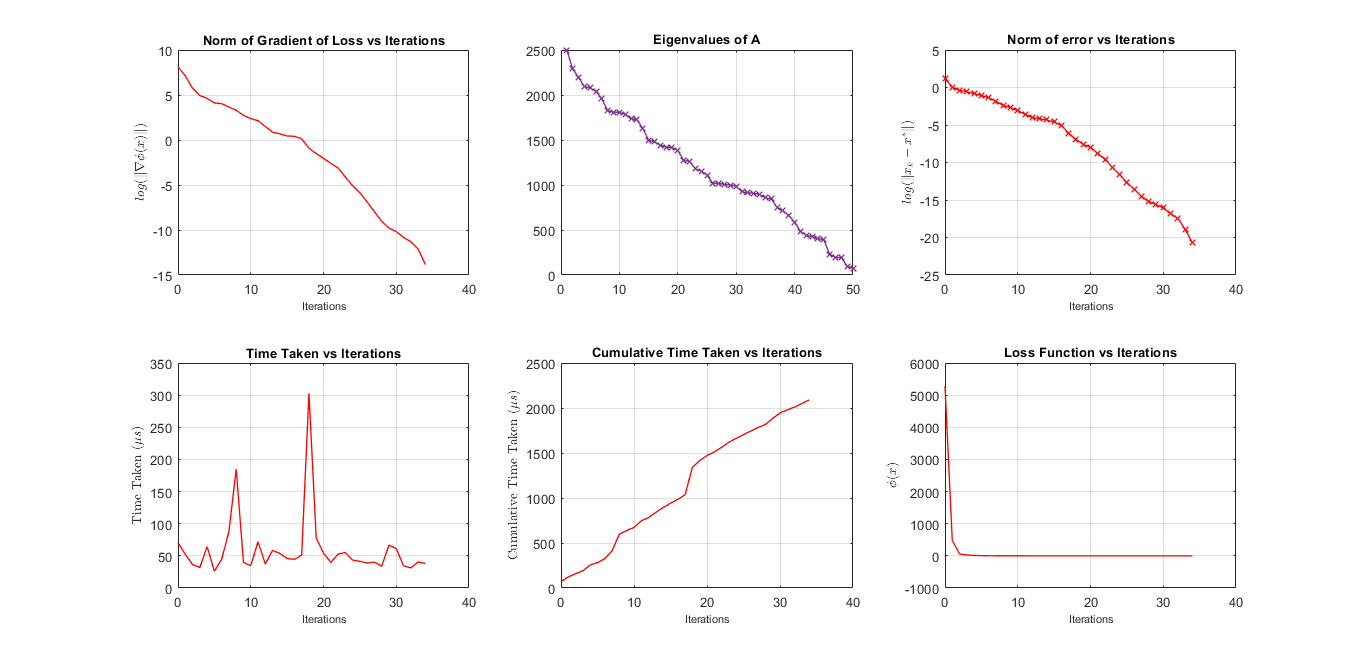
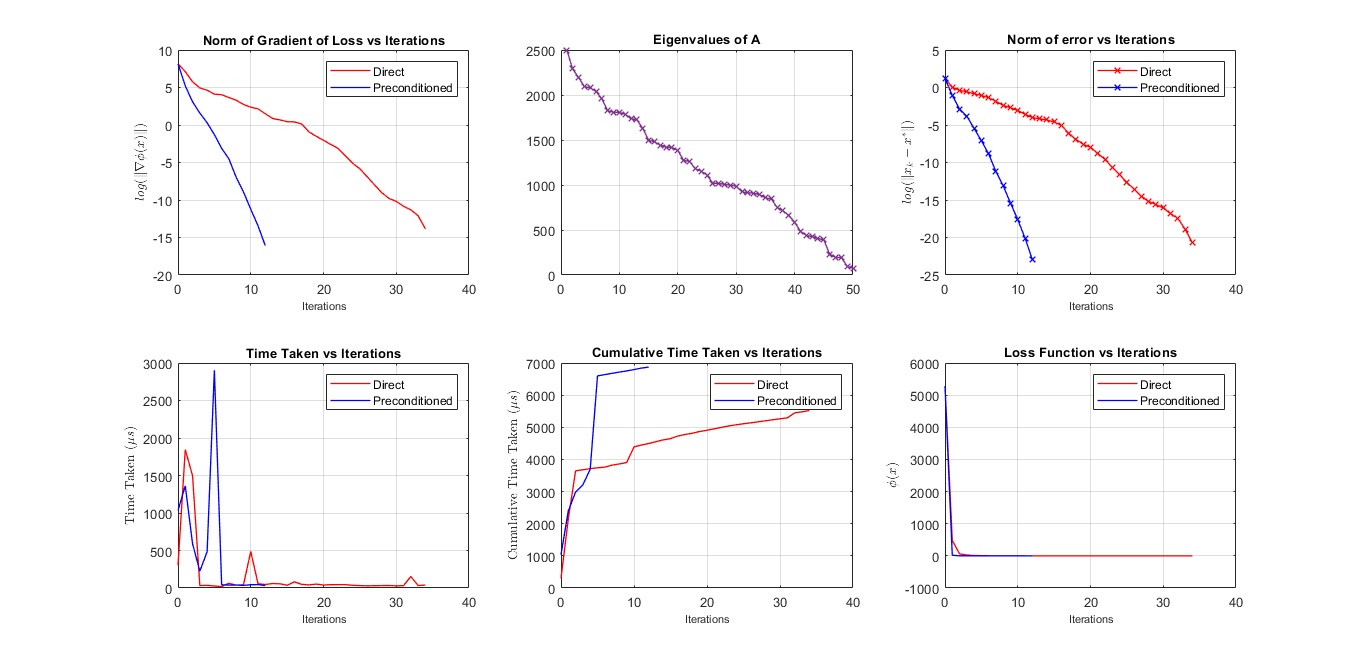
Made minor corrections in main and plotted time data for precondCG

diff --git a/main.m b/main.m
@@ -41,7 +41,7 @@ A = generatePDMatrix(N, max_eig);
 b_orig = mult * rand(N,1);
 b = b_orig + noise * rand(N,1);
 
-%Optimal solution to the linear equation Ax = b
+%Optimal solution to the linear equation Ax = b_orig
 x_opt = linsolve(A, b_orig);
 
 %%%%%%%%%%%%%%%%%%%%%%%%%%%%%%%%%%%%%%%%%%%%
@@ -54,11 +54,12 @@ max_iter = N;
 %Tolerance for norm of gradient of loss at convergence
 tolerance = 1e-6;
 
-%Calling the conjugateGrad function
+%Calling the conjugateGrad and preconditionedCG functions
 [x_hist, gf_hist, time_taken, num_iters] = conjugateGrad(A, b, x0, max_iter, tolerance);
 [x_hist_pre, gf_hist_pre, time_taken_pre, num_iters_pre] = preconditionedCG(A, b, x0, max_iter, tolerance);
 
 %%%%%%%%%%%%%%%%%%%%%%%%%%%%%%%%%%%%%%%%%%%%
+
 name1 = 'Direct';
 name2 = 'Preconditioned';
 
@@ -67,12 +68,13 @@ figure;
 subplot(2,3,1);
 plot(0:num_iters, log(gf_hist),'r','LineWidth',1,'DisplayName',name1);
 hold on;
-plot(0:num_iters_pre, log(gf_hist_pre),'r','LineWidth',1,'DisplayName',name2);
+plot(0:num_iters_pre, log(gf_hist_pre),'b','LineWidth',1,'DisplayName',name2);
 grid;
 title('Norm of Gradient of Loss vs Iterations', 'FontSize', 10);
 ylabel('$log( \| \nabla \phi (x) \| )$','interpreter','latex', 'FontSize', 10);
 xlabel('Iterations', 'FontSize', 8);
 legend();
+
 %%%%%%%%%%%%%%%%%%%%%%%%%%%%%%%%%%%%%%%%%%%%
 
 %Plotting eigen values of A
@@ -85,22 +87,27 @@ title('Eigenvalues of A', 'FontSize', 10);
 
 %Plotting log of norm of gradient of loss function
 subplot(2,3,3);
-plot(0:num_iters, log( vecnorm( x_hist- x_opt ) ),'r-x','LineWidth',1,'DisplayName',name1); grid;
+plot(0:num_iters, log( vecnorm( x_hist- x_opt ) ),'r-x','LineWidth',1,'DisplayName',name1);
 hold on;
-plot(0:num_iters_pre, log( vecnorm( x_hist_pre- x_opt ) ),'r-x','LineWidth',1,'DisplayName',name2); grid;
+plot(0:num_iters_pre, log( vecnorm( x_hist_pre- x_opt ) ),'b-x','LineWidth',1,'DisplayName',name2);
+grid;
+title('Norm of error vs Iterations', 'FontSize', 10);
 ylabel('$log(\|x_k-x^*\| )$','interpreter','latex', 'FontSize', 10);
 xlabel('Iterations', 'FontSize', 8);
-title('Norm of error vs Iterations', 'FontSize', 10);
 legend();
+
 %%%%%%%%%%%%%%%%%%%%%%%%%%%%%%%%%%%%%%%%%%%%
 
 %Plotting time taken
 subplot(2,3,4);
-plot(0:num_iters, 10^6*time_taken,'r','LineWidth',1);
+plot(0:num_iters, 10^6*time_taken,'r','LineWidth',1,'DisplayName',name1);
+hold on;
+plot(0:num_iters_pre, 10^6*time_taken_pre,'b','LineWidth',1,'DisplayName',name2);
 grid;
 title('Time Taken vs Iterations', 'FontSize', 10);
 ylabel('Time Taken ($\mu s$)','interpreter','latex', 'FontSize', 10);
 xlabel('Iterations', 'FontSize', 8);
+legend();
 
 %%%%%%%%%%%%%%%%%%%%%%%%%%%%%%%%%%%%%%%%%%%%
 
@@ -112,20 +119,29 @@ for i=2:num_iters+1
     time_taken_cum(i) = time_taken_cum(i-1) + time_taken(i);
 end
 
+time_taken_cum_pre = zeros(num_iters_pre+1, 1);
+time_taken_cum_pre(1) = time_taken_pre(1);
+for i=2:num_iters_pre+1
+    time_taken_cum_pre(i) = time_taken_cum_pre(i-1) + time_taken_pre(i);
+end
+
 subplot(2,3,5);
-plot(0:num_iters, 10^6*time_taken_cum,'r','LineWidth',1);
+plot(0:num_iters, 10^6*time_taken_cum,'r','LineWidth',1,'DisplayName',name1);
+hold on;
+plot(0:num_iters_pre, 10^6*time_taken_cum_pre,'b','LineWidth',1,'DisplayName',name2);
 grid;
 title('Cumulative Time Taken vs Iterations', 'FontSize', 10);
 ylabel('Cumulative Time Taken ($\mu s$)','interpreter','latex', 'FontSize', 10);
 xlabel('Iterations', 'FontSize', 8);
+legend();
 
 %%%%%%%%%%%%%%%%%%%%%%%%%%%%%%%%%%%%%%%%%%%%
 
-%Plotting the values taken by the loss function for each x in x_hist
+%Plotting the values taken by the loss function for each x in x_hist and x_hist_pre
 %Defining the loss function
 f = @(x) 0.5*x'*A*x - b'*x;
 
-%Calculating loss value at columns in x_hist
+%Calculating loss value at columns in x_hist and x_hist_pre
 func_vals = zeros(num_iters+1, 1);
 for i=1:(num_iters+1)
     func_vals(i, 1) = f(x_hist(:, i));
@@ -139,12 +155,15 @@ end
 subplot(2,3,6);
 plot(0:num_iters, func_vals,'r','LineWidth',1,'DisplayName',name1);
 hold on;
-plot(0:num_iters_pre, func_vals_pre,'r','LineWidth',1,'DisplayName',name2);
+plot(0:num_iters_pre, func_vals_pre,'b','LineWidth',1,'DisplayName',name2);
 grid;
 title('Loss Function vs Iterations', 'FontSize', 10);
 ylabel('$\phi (x)$', 'interpreter', 'latex', 'FontSize', 10);
 xlabel('Iterations', 'FontSize', 8);
 legend();
+
+%%%%%%%%%%%%%%%%%%%%%%%%%%%%%%%%%%%%%%%%%%%%
+
 % %Saving the plot generated
 % print('plot','-dpng');
 

diff --git a/preconditionedCG.m b/preconditionedCG.m
@@ -40,7 +40,10 @@ function [x_hist, gf_hist, time_taken, k] = preconditionedCG(A, b, x0, max_iter,
 	time_taken = toc;
 
 	%Displaying values before the iterations
-	disp(['CG: k=0, gf=' num2str(norm(r)) '  , time elapsed: ' num2str(time_taken*10^6) ' micro seconds']);
+	fprintf('\n');
+	disp('Preconditioned Conjugate Gradient Method:')
+	fprintf('\n');
+	disp(['PCG: k=0, gf=' num2str(norm(r)) '  , time elapsed: ' num2str(time_taken*10^6) ' micro seconds']);
 
 	while norm(r) > tolerance && k < max_iter
 		%Starting measurement of time for this iteration
@@ -70,9 +73,10 @@ function [x_hist, gf_hist, time_taken, k] = preconditionedCG(A, b, x0, max_iter,
 		%Ending measurement of time and logging
 		time_taken = [time_taken, toc];
 
-		disp(['CG: k=' num2str(k) ', gf=' num2str(norm(r_new)) '  , time elapsed: ' num2str(time_taken(end)*10^6) ' micro seconds']);
+		disp(['PCG: k=' num2str(k) ', gf=' num2str(norm(r_new)) '  , time elapsed: ' num2str(time_taken(end)*10^6) ' micro seconds']);
 	end
 	%Displaying relevant details of the CGM execution
 	fprintf('\n');
 	disp(['Total number of iterations: ' num2str(k) ' , Total time taken: ' num2str(sum(time_taken)*10^6) ' micro seconds']);
+	fprintf('\n');
 end

diff --git a/conjugateGrad.m b/conjugateGrad.m
@@ -33,6 +33,9 @@ function [x_hist, gf_hist, time_taken, k] = conjugateGrad(A, b, x0, max_iter, to
 	time_taken = toc;
 
 	%Displaying values before the iterations
+	fprintf('\n');
+	disp('Vanilla Conjugate Gradient Method:')
+	fprintf('\n');
 	disp(['CG: k=0, gf=' num2str(norm(r)) '  , time elapsed: ' num2str(time_taken*10^6) ' micro seconds']);
 
 	while norm(r) > tolerance && k < max_iter
@@ -65,4 +68,5 @@ function [x_hist, gf_hist, time_taken, k] = conjugateGrad(A, b, x0, max_iter, to
 	%Displaying relevant details of the CGM execution
 	fprintf('\n');
 	disp(['Total number of iterations: ' num2str(k) ' , Total time taken: ' num2str(sum(time_taken)*10^6) ' micro seconds']);
+	fprintf('\n');
 end
